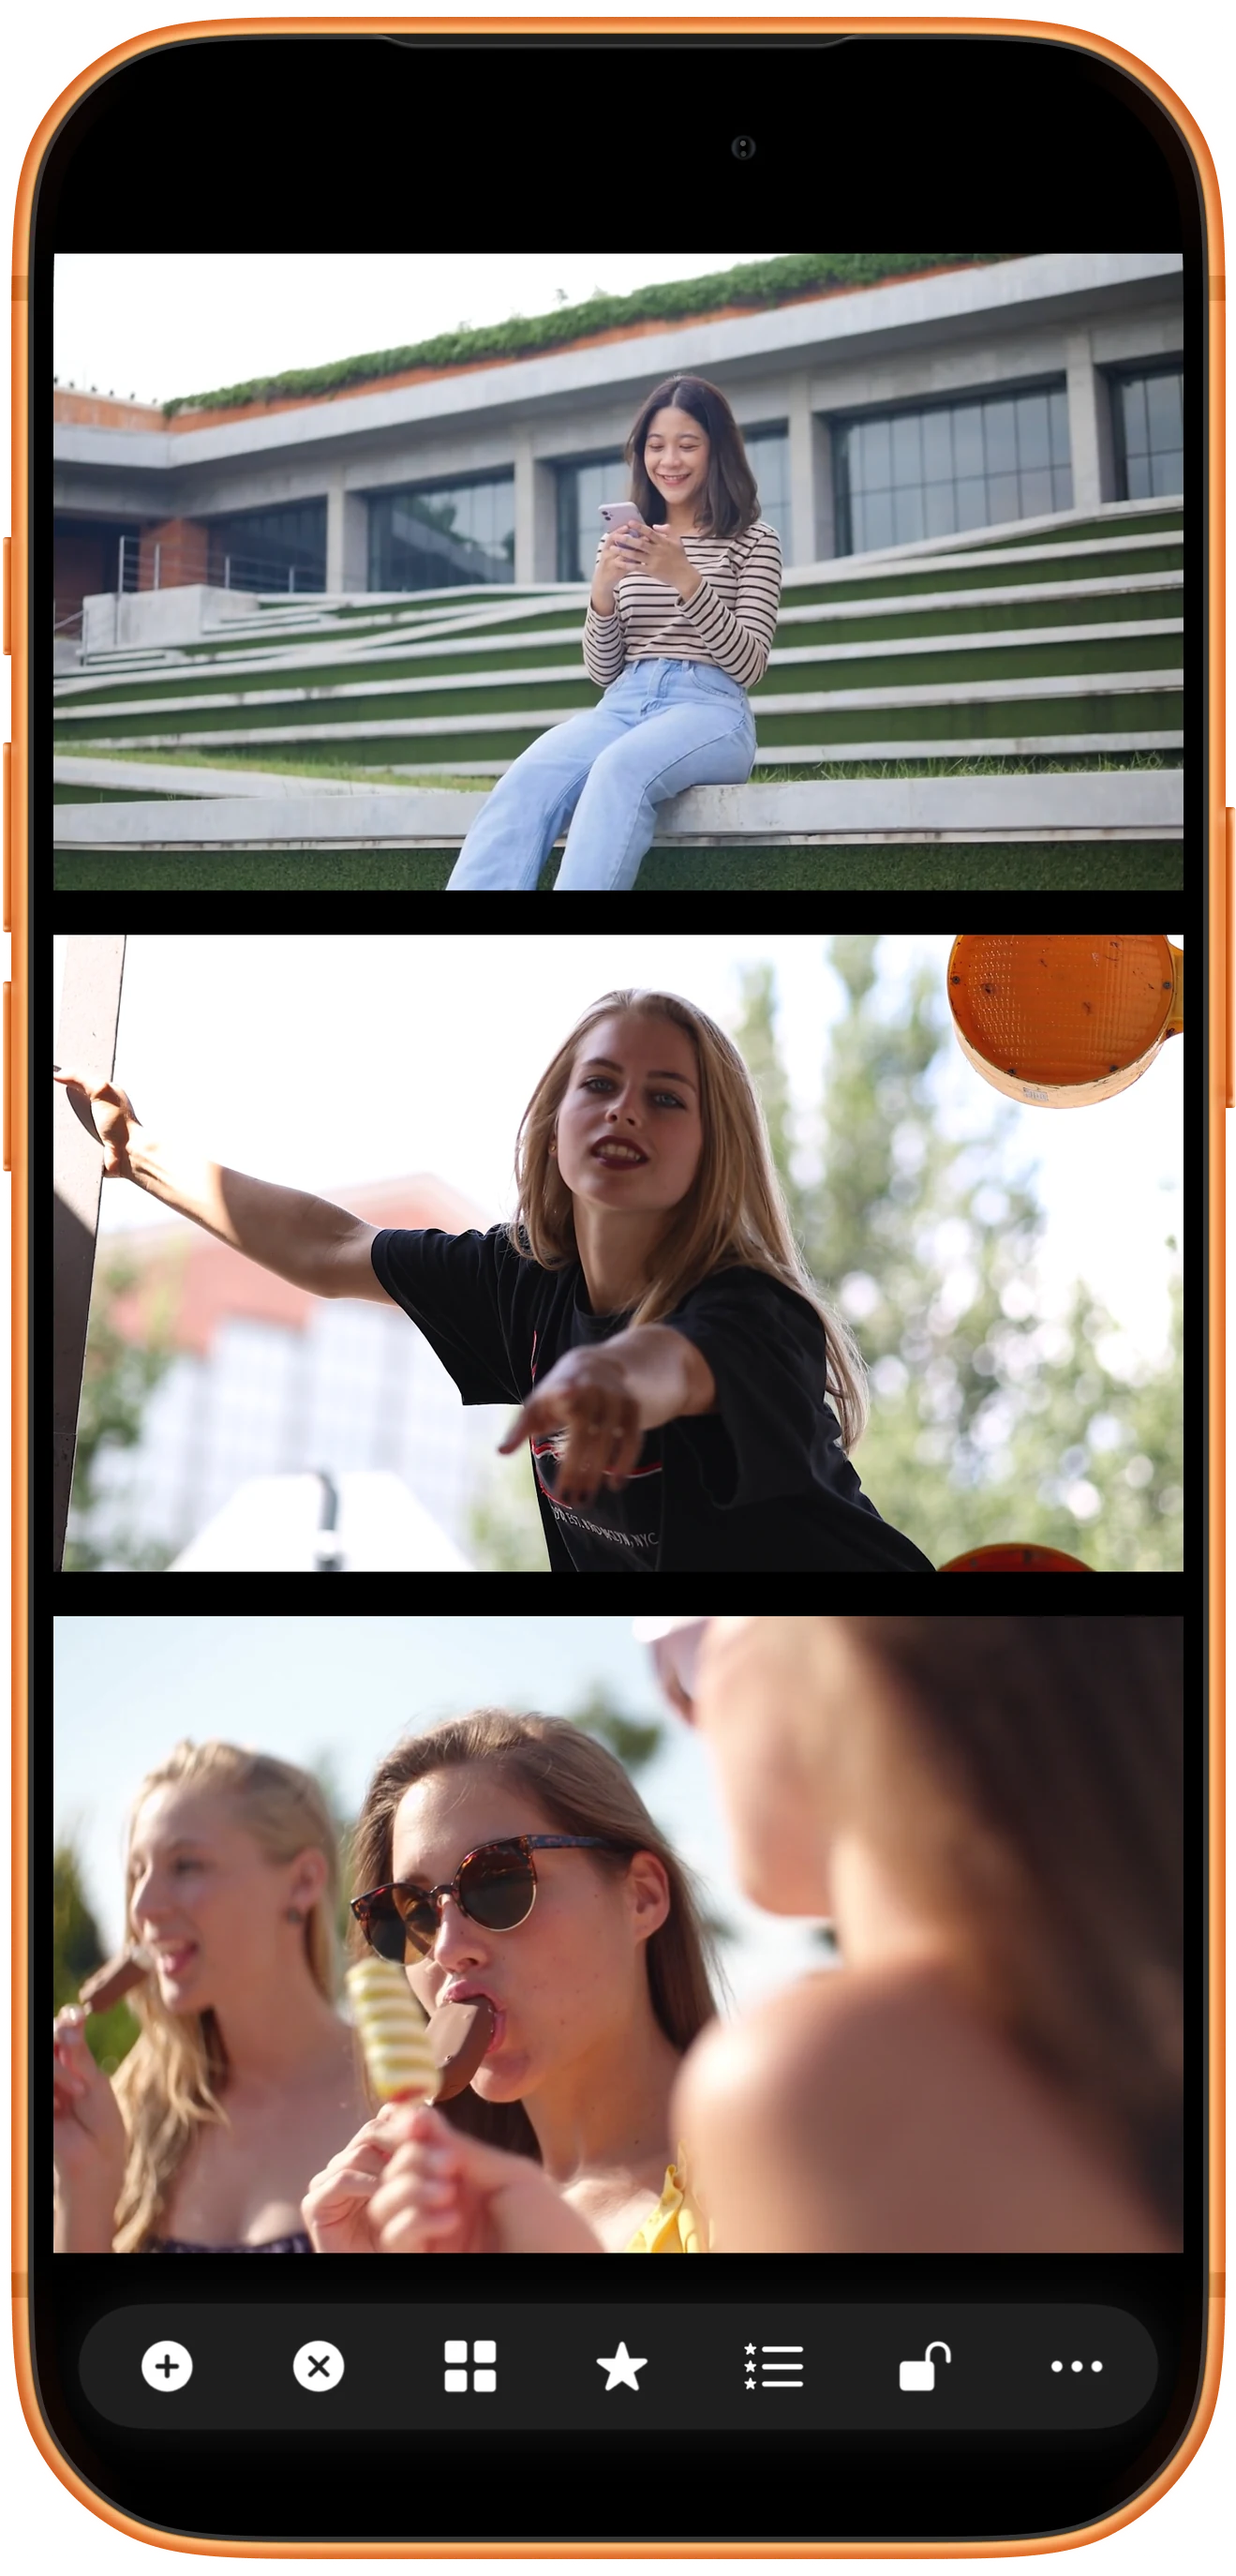
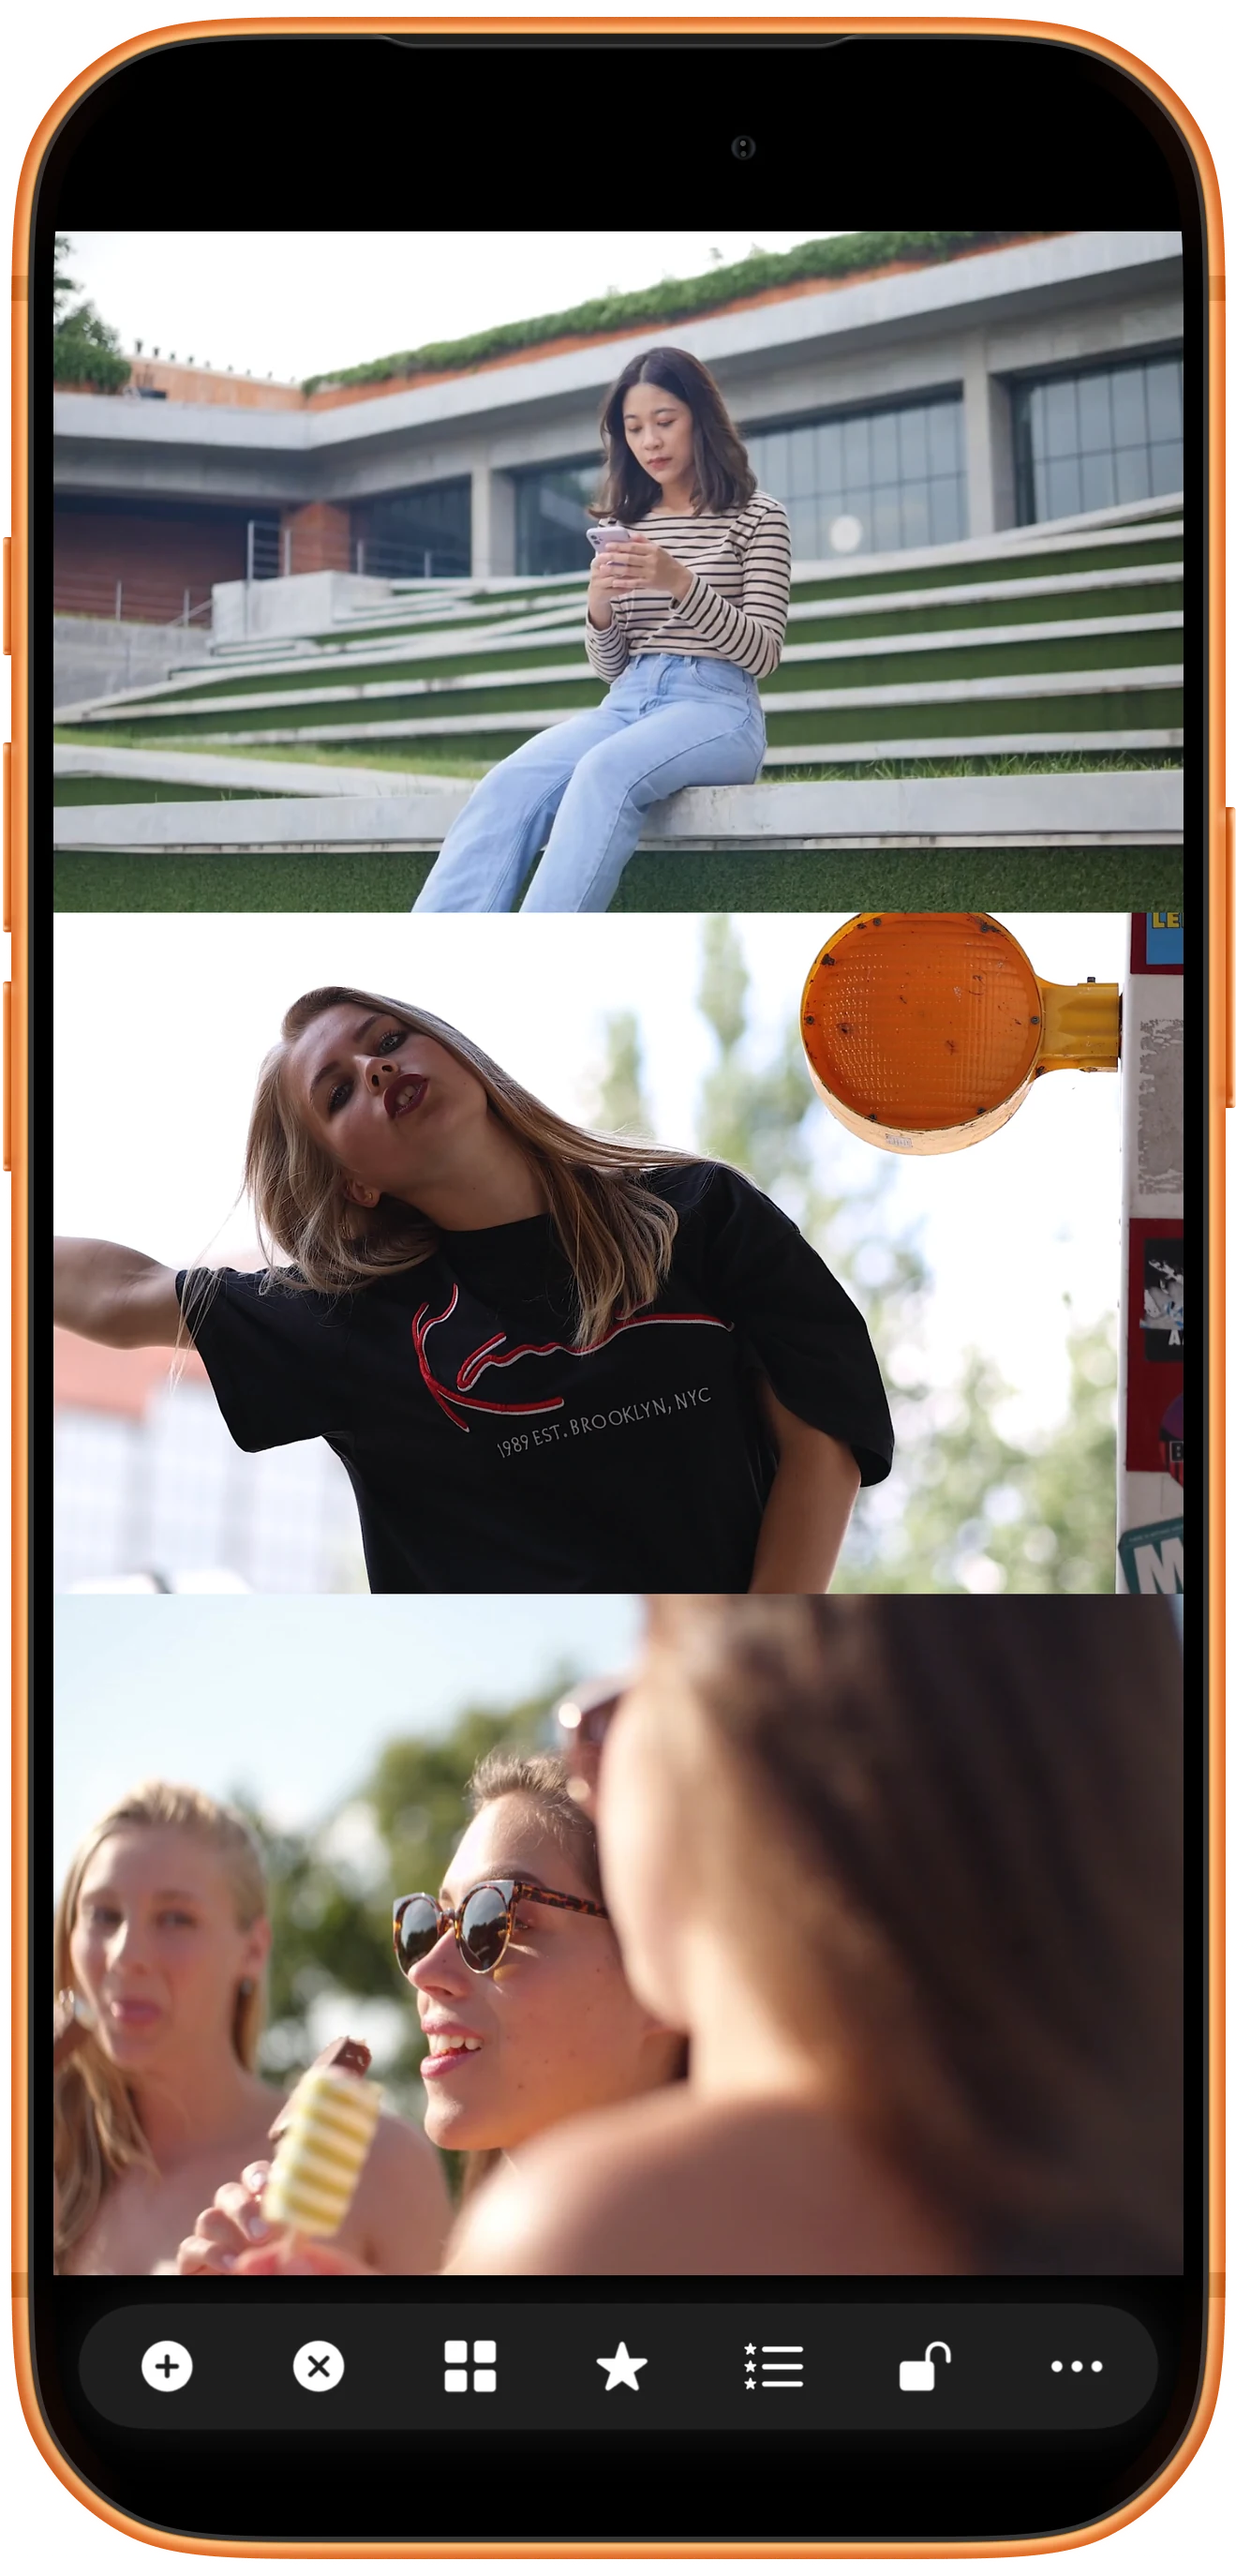
Refresh Chinese tutorial screenshots with aspect-fill video layouts

diff --git a/docs/multi-video-tutorial-aspect-fill.md b/docs/multi-video-tutorial-aspect-fill.md
@@ -1,0 +1,16 @@
+# 教程截图：等比铺满重拍
+
+2026-09-13，重新截取简体中文 iPhone 图文教程的六张配图，并同步更新 Android 教程复用的 iPhone 示意图。
+
+- 设备：已运行的 iPhone 17 Pro Max 模拟器，iOS 26.0，SSP 1.0.29。
+- App：`NVideo-Simulator`，`dev/Dev_1.0.29_Simulator`，提交 `83149cea`。本次没有修改或重新编译 App。
+- 内容：沿用模拟器中的视频和已保存组合；三行、四宫格均使用「等比铺满(内容会被裁剪)」，视频之间不再出现因等比适应造成的黑边。恢复旧书签会恢复旧的视频显示模式，需重新应用该设置后再截取。
+- 配图：`01-layout-choices`、`02-open-videos`、`03-three-videos`、`04-select-grid`、`05-four-videos`、`06-playback-controls`，位于 `public/images/guides/multi-video/zh-Hans/`。
+- 手机壳：使用现有 `NVideo/Tools/AppStoreScreenshotFramer/add_iphone_frame.py --frame orange`。四宫格原始截图和橙壳先各逆时针旋转 90°，使操作栏位于右侧。
+- 输出：竖图 1319 × 2748，横图 2748 × 1319，透明背景 WebP，质量 88。布局圈选继续由网页覆盖，未绘入原始截图。
+
+原始 PNG、加壳 PNG、横屏规范化副本和包含哈希的清单：
+
+`/Users/viktorhuang/Downloads/SSP-Tutorial-AspectFill-2026-09-13/`
+
+截图后模拟器恢复为简体中文、竖屏三行、等比铺满。六张文件的尺寸及透明通道已检查，图文步骤保留原有菜单和布局；仅本地预览，尚未发布。
